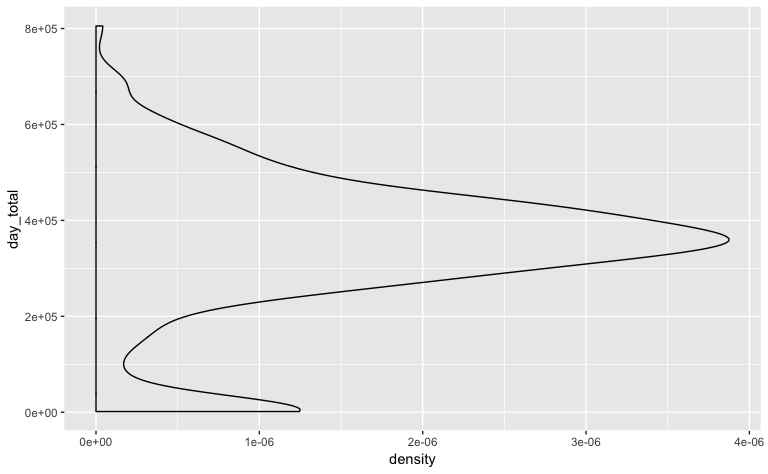
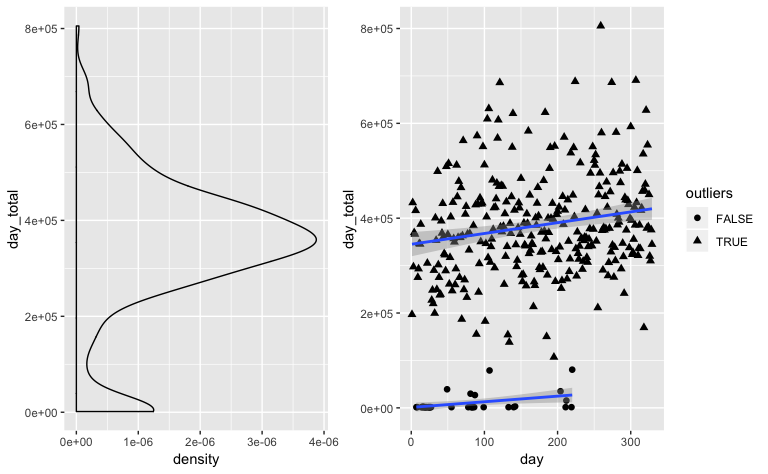
make two tables on a line

diff --git a/p8105_mtp_zf2213.md b/p8105_mtp_zf2213.md
@@ -58,48 +58,47 @@ activity_day_total <- activity %>%
 
 library(patchwork)
 
-activity_day_total %>% 
+density_total <- activity_day_total %>% 
   group_by(outliers = day_total > 100000) %>%
     ggplot(aes(x = day_total)) +
       geom_density() +
       coord_flip()
+
+# day total counts over time
+scatter_total <- activity_day_total %>%
+    group_by(outliers = day_total > 100000) %>%
+    ggplot(aes(x = day, y = day_total, shape = outliers)) +
+      geom_point(size = 2) +
+      geom_smooth(method = "lm")
+
+density_total + scatter_total
 ```
 
 <img src="p8105_mtp_zf2213_files/figure-gfm/unnamed-chunk-1-1.png" width="100%" />
 
 ``` r
-# day total counts over time
-activity_day_total %>%
-    group_by(outliers = day_total > 100000) %>%
-    ggplot(aes(x = day, y = day_total, shape = outliers)) +
-      geom_point(size = 2) +
-      geom_smooth(method = "lm")
-```
-
-<img src="p8105_mtp_zf2213_files/figure-gfm/unnamed-chunk-1-2.png" width="100%" />
-
-``` r
-summary(lm(day ~ day_total, data = activity_day_total))
+summary(lm(day ~ day_total, data = activity_day_total %>% filter(day_total > 100000)))
 ```
 
     ## 
     ## Call:
-    ## lm(formula = day ~ day_total, data = activity_day_total)
+    ## lm(formula = day ~ day_total, data = activity_day_total %>% filter(day_total > 
+    ##     1e+05))
     ## 
     ## Residuals:
     ##      Min       1Q   Median       3Q      Max 
-    ## -182.423  -72.111   -0.134   75.795  192.610 
+    ## -181.373  -80.065    1.849   75.221  180.467 
     ## 
     ## Coefficients:
     ##              Estimate Std. Error t value Pr(>|t|)    
-    ## (Intercept) 8.744e+01  1.220e+01   7.165 5.18e-12 ***
-    ## day_total   2.241e-04  3.229e-05   6.941 2.10e-11 ***
+    ## (Intercept) 1.081e+02  1.998e+01   5.407 1.33e-07 ***
+    ## day_total   1.740e-04  5.008e-05   3.475 0.000588 ***
     ## ---
     ## Signif. codes:  0 '***' 0.001 '**' 0.01 '*' 0.05 '.' 0.1 ' ' 1
     ## 
-    ## Residual standard error: 88.94 on 327 degrees of freedom
-    ## Multiple R-squared:  0.1284, Adjusted R-squared:  0.1258 
-    ## F-statistic: 48.18 on 1 and 327 DF,  p-value: 2.097e-11
+    ## Residual standard error: 90.92 on 293 degrees of freedom
+    ## Multiple R-squared:  0.03959,    Adjusted R-squared:  0.03631 
+    ## F-statistic: 12.08 on 1 and 293 DF,  p-value: 0.0005877
 
 ``` r
 # across week, show the distribution of activities for each day in a week
@@ -114,7 +113,7 @@ activity_day_total %>%
 
     ## `geom_smooth()` using method = 'loess' and formula 'y ~ x'
 
-<img src="p8105_mtp_zf2213_files/figure-gfm/unnamed-chunk-1-3.png" width="100%" />
+<img src="p8105_mtp_zf2213_files/figure-gfm/unnamed-chunk-1-2.png" width="100%" />
 (add some statistical parts)
 
 ### Activities over a day
